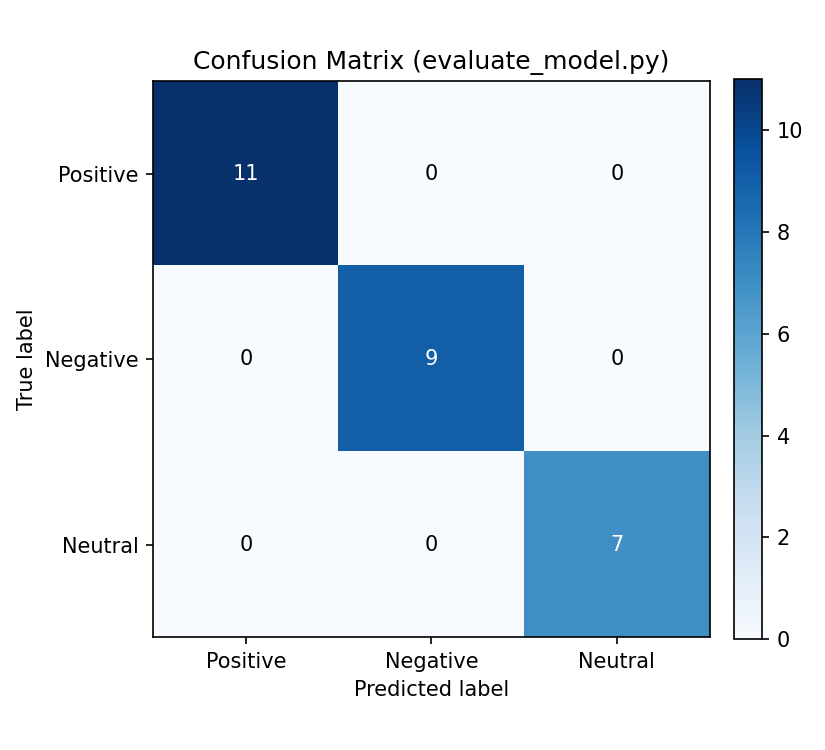
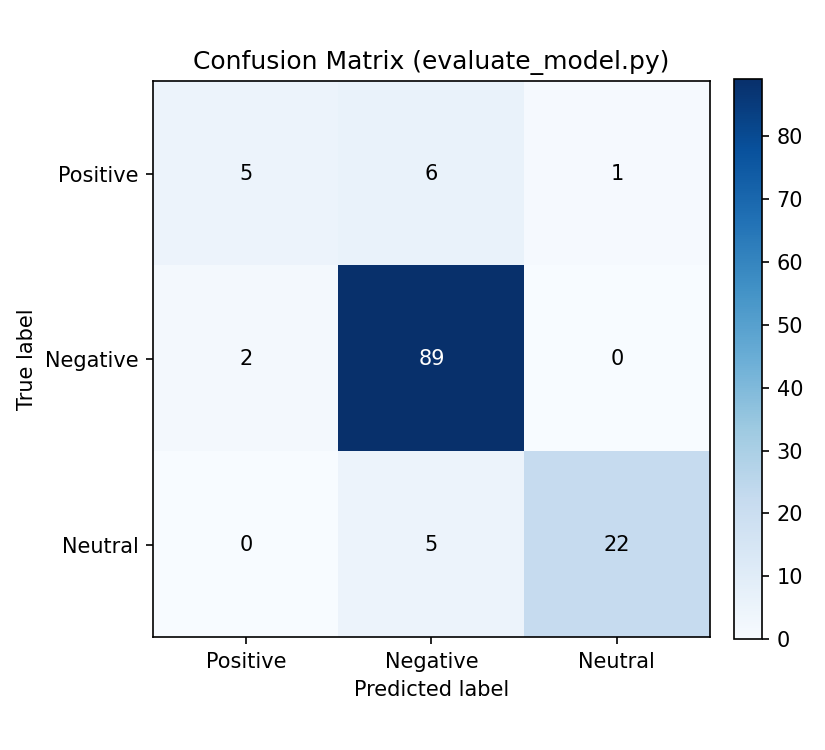
Line-by-line review pass: fix stale docstrings, trim a redundant import
Read every .py file in the restructured project end to end, ran a full
compileall syntax check, and re-executed clean_dataset/train_model/
compare_models/evaluate_model plus the full frontend import surface to
confirm nothing regressed. Found and fixed:
- Stale llm_labeling/preprocessing/training/prediction/analytics/chatbot
  path references left in a few docstrings and comments (text_utils.py,
  analytics.py) after the restructure
- A redundant duplicate `cross_val_predict` import in compare_models.py

No functional bugs found; all pipeline stages reproduce identical metrics
(89.2% test accuracy, 0.78 macro-F1) after every change.

diff --git a/frontend/analytics.py b/frontend/analytics.py
@@ -2,7 +2,7 @@
 Part 5.3 / 5.5: Sentiment analytics and descriptive (non-causal) insights.
 
 Operates on any DataFrame containing a sentiment column (e.g. the output of
-prediction/batch_predict.py, with column 'predicted_sentiment', or a labeled
+frontend/batch_predict.py, with column 'predicted_sentiment', or a labeled
 dataset with column 'label'). Never fabricates data - if a requested signal
 (e.g. dates) isn't present, it is reported as unavailable rather than invented.
 """

diff --git a/ml_pipeline/compare_models.py b/ml_pipeline/compare_models.py
@@ -49,7 +49,6 @@ def compare_models(train_df, eval_df, random_state: int = config.RANDOM_STATE) -
         fitted[name] = pipeline
 
         if use_cv:
-            from sklearn.model_selection import cross_val_predict
             preds = cross_val_predict(pipeline, train_df["comment"], train_df["label"], cv=3)
             metrics = evaluate_predictions(train_df["label"], preds)
             metrics["evaluated_on"] = "3fold_cv_on_train"

diff --git a/labeling_cleaning/text_utils.py b/labeling_cleaning/text_utils.py
@@ -1,6 +1,6 @@
 """
 Shared text-normalization utilities used by BOTH the offline cleaning pipeline
-(preprocessing/clean_dataset.py) and the online predictor (prediction/predictor.py).
+(labeling_cleaning/clean_dataset.py) and the online predictor (frontend/predictor.py).
 
 Keeping this logic in one place guarantees that a comment is normalized the
 SAME way at training time and at prediction time - a common source of subtle
